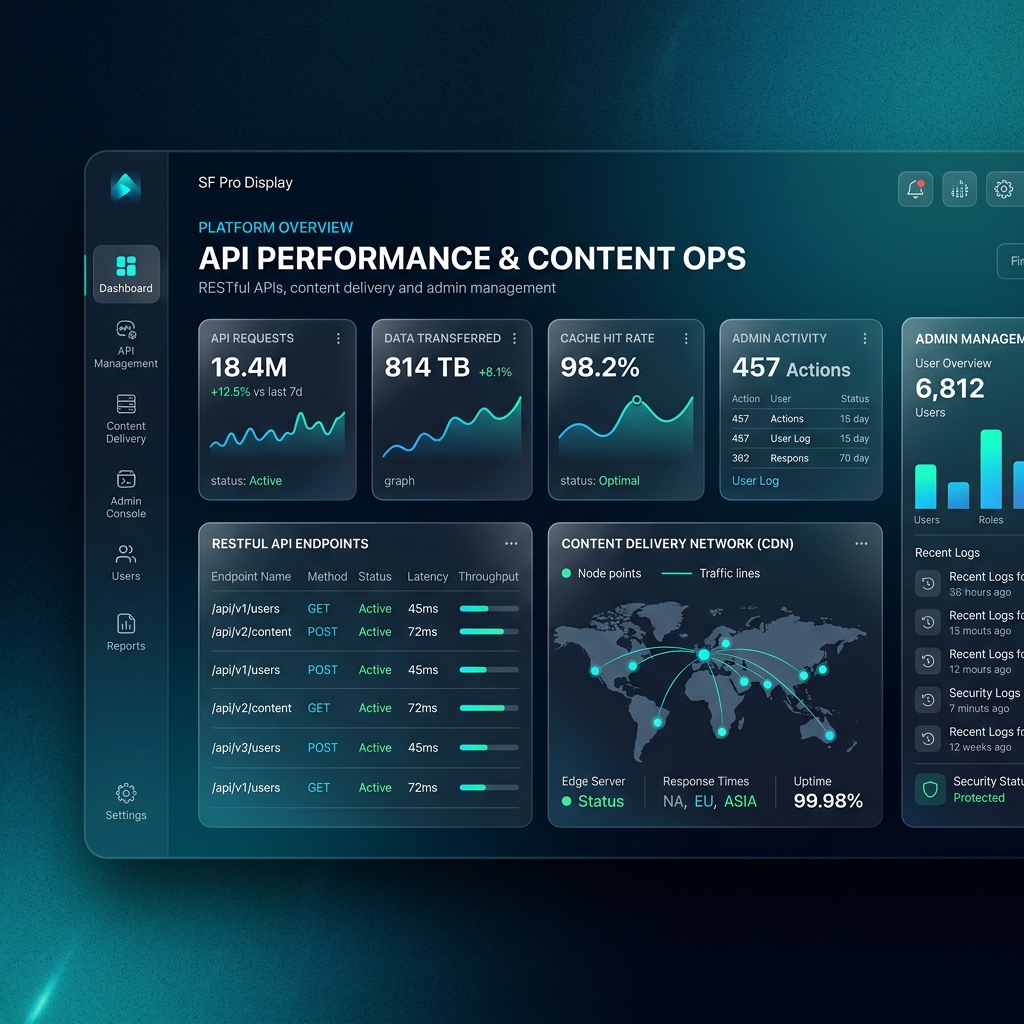
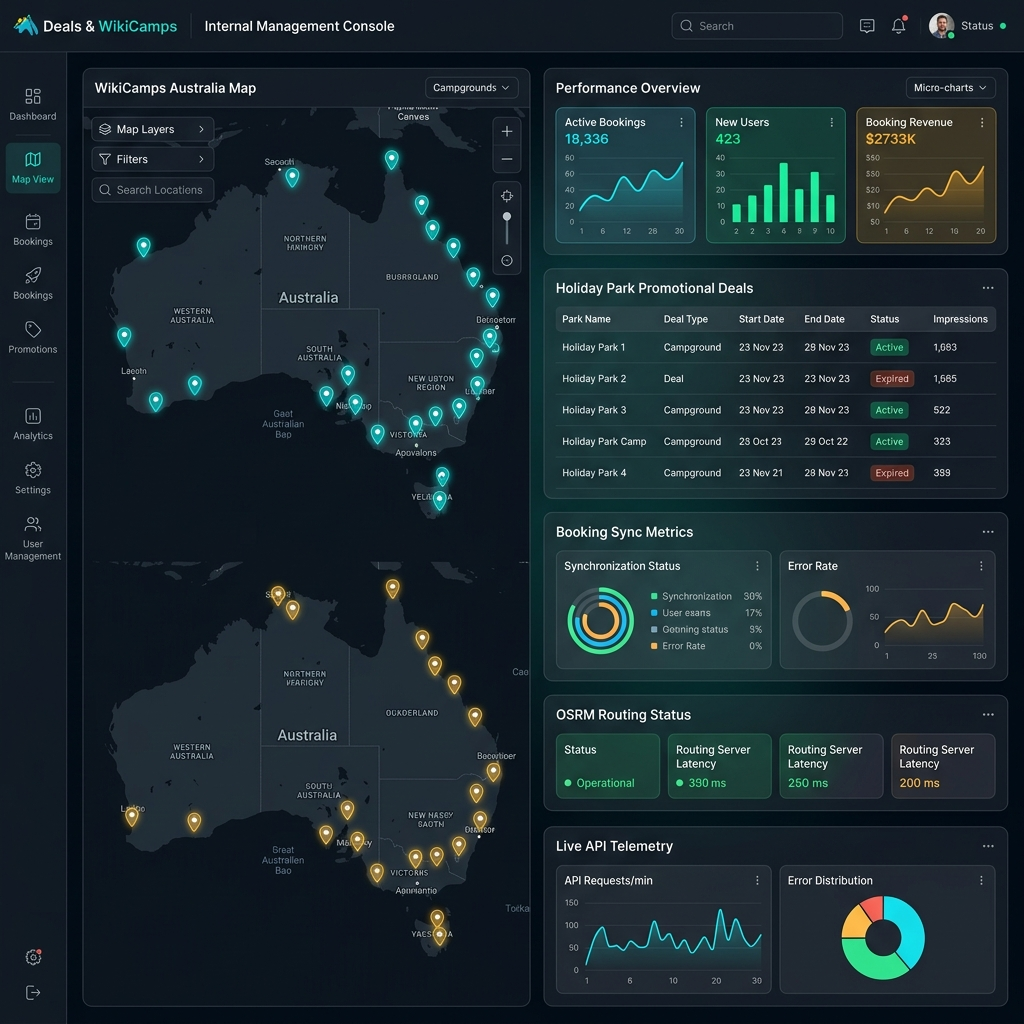
feat: update profile and project

diff --git a/src/data/cvData.ts b/src/data/cvData.ts
@@ -67,8 +67,8 @@ export const cvData = {
     primaryStatement: "I don't just write code — I close gaps.",
     supportingStatement: "Understand the system. Identify the gap. Build the solution. Deliver it in production.",
     techBadges: ["C# / .NET", "ASP.NET Core", "Azure", "SQL Server", "APIs & Integrations"],
-    overview: "Software engineer with 2 decades of experience across software development, enterprise applications, databases, integrations and IT systems, including 5+ years of professional C#/.NET experience.",
-    longAbout: "My engineering career spans two decades of building software, enterprise applications, and production systems. My earlier foundation was built on desktop and web application development, database architecture (SQL Server, Oracle), manufacturing systems, and enterprise integrations. Over the last 5+ years, I have focused professionally on modern C#/.NET, ASP.NET Core, Azure cloud infrastructure, and robust backend microservices.\n\nI approach engineering with a systems mindset: understand the business domain, pinpoint operational gaps, build clean and maintainable software, and ensure reliable execution in production.",
+    overview: "Software engineer with 2 decades of experience across software development, enterprise applications, databases, integrations and IT systems, including 15+ years of .NET development experience.",
+    longAbout: "My engineering career spans two decades of building software, enterprise applications, and production systems. My earlier foundation was built on desktop and web application development, database architecture (SQL Server, Oracle), manufacturing systems, and enterprise integrations. Across 15+ years of .NET development, I have focused professionally on modern C#/.NET, ASP.NET Core, Azure cloud infrastructure, and robust backend microservices.\n\nI approach engineering with a systems mindset: understand the business domain, pinpoint operational gaps, build clean and maintainable software, and ensure reliable execution in production.",
     location: "Available for Senior .NET & Azure Roles (Remote International)",
     email: "patrickgonzaga@gmail.com",
     linkedin: "https://www.linkedin.com/in/patgonzaga/",
@@ -144,7 +144,7 @@ export const cvData = {
       description: [
         "Served as sole software engineer managing and scaling 24/7 Manufacturing Execution Systems (MES) and enterprise IT applications across 100+ production, VMware, and Hyper-V servers.",
         "Engineered custom VB.NET, SQL Server, and Oracle solutions that boosted floor productivity by 75% and delivered > MYR 1M in verified time-saving operational benefits.",
-        "Architected the Electronic Lot Control Slip (e-LCS), introducing system-driven 'poka-yoke' (mistake-proofing) validation that blocked incorrect lot processing steps in real time.",
+        "Architected the Electronic Lot Control Slip (e-LCS) and e-Counting Balance System, implementing poka-yoke validation to eliminate lot-mixing defects and save up to 800,000 scrapped component pieces.",
         "Integrated SAP with MES to fully automate material master registration and production planning runs, eliminating manual data entry cycles.",
         "Built internal RSKL Helpdesk ticketing system (VB.NET, ASP.NET, SQL Server) and real-time Spotfire manufacturing analytics dashboards for operational leadership."
       ]
@@ -185,7 +185,7 @@ export const cvData = {
       fullDescription: "Built and maintained RESTful APIs powering the Deals and WikiCamps platforms, integrated with a low-code Retool admin portal used daily by internal operations. Implemented secure configuration via Azure Key Vault, response caching via Redis, and resilient HTTP client integrations with Polly.",
       problem: "High-volume hospitality platform required resilient backend services, real-time booking synchronization, and efficient internal admin tools.",
       solution: "Engineered ASP.NET Core REST APIs with EF Core data access, integrated BookEasy and OSRM with Polly resilience policies, and built custom Retool admin portals.",
-      engineeringDecisions: "Implemented Azure Service Bus event handlers, Redis response caching, Key Vault secret management, and Cursor AI workflows with strict human code review.",
+      engineeringDecisions: "Contributed to existing infrastructure including Azure Service Bus event handlers, Redis response caching, and Key Vault secret management, while creating custom Cursor AI error-checking workflows with strict human code review.",
       impact: "Delivered reliable production APIs and internal tools powering daily operations for Australian holiday park users.",
       image: "/images/projects/wikicamps-admin.png",
       type: "enterprise"
@@ -230,6 +230,20 @@ export const cvData = {
       engineeringDecisions: "Implemented real-time poka-yoke (error-proofing) rules that automatically verify the lot's current routing step in SQL Server and block mismatched steps before physical processing.",
       impact: "Completely eliminated routing mismatch defects, saving 23 minutes per lot cycle (92% time savings).",
       image: "/images/projects/e-lot-control.png",
+      type: "enterprise"
+    },
+    {
+      id: "e-counting-balance",
+      title: "e-Counting Balance System (eCB)",
+      client: "Renesas Semiconductor",
+      tags: ["VB.NET", "SQL Server", "Oracle", "MES", "Poka-Yoke", "Inventory Control"],
+      shortDescription: "Automated tracking and lot consolidation system preventing material scrap of partial component lots.",
+      fullDescription: "Architected and deployed the e-Counting Balance system to eliminate scrap of partial component lots in semiconductor manufacturing. Previously, up to 800,000 residual component pieces that did not form a complete lot were discarded to prevent lot mixing. The system logged, validated, and safely combined matching partial inventory into full production lots.",
+      problem: "Residual component pieces (ranging up to 800,000 pieces) that did not make a complete lot were routinely scrapped to prevent lot mixing, causing severe material waste.",
+      solution: "Engineered an automated e-Counting Balance tracking and poka-yoke (mistake-proofing) validation system in VB.NET and SQL Server to safely combine residual pieces into full production lots.",
+      engineeringDecisions: "Built real-time lot combination logic with barcode verification and database constraints to guarantee zero lot mixing while consolidating partial lots.",
+      impact: "Eliminated the scrapping of up to 800,000 component pieces, dramatically reducing material waste and driving substantial cost savings.",
+      image: "/images/projects/e-counting-balance.png",
       type: "enterprise"
     },
     {

diff --git a/src/features/About/useAbout.ts b/src/features/About/useAbout.ts
@@ -3,7 +3,7 @@ import { cvData } from '../../data/cvData';
 export const useAbout = () => {
   const bioParagraphs = [
     "My software engineering career spans two decades building applications, database systems, and enterprise infrastructure. My earlier background was built on desktop and web development, database architecture (SQL Server, Oracle), SAP/MES manufacturing integration, and production systems.",
-    "Over the last 5+ years, I have focused professionally on modern C#/.NET, ASP.NET Core RESTful APIs, Microsoft Azure cloud architecture, distributed messaging, and high-throughput data processing. My career has naturally evolved from broader software and IT systems into specialized backend and cloud engineering.",
+    "Across 15+ years of .NET development, I have focused professionally on C#/.NET, ASP.NET Core RESTful APIs, Microsoft Azure cloud architecture, distributed messaging, and high-throughput data processing. My career has naturally evolved from broader software and IT systems into specialized backend and cloud engineering.",
     "I operate on a fundamental principle: I don't just write code — I close gaps. I approach complex software engineering by understanding the entire system architecture, identifying operational bottlenecks, engineering clean solutions with Entity Framework Core and cloud services, and delivering reliable code in production."
   ];
 
@@ -16,7 +16,7 @@ export const useAbout = () => {
 
   const stats = [
     { value: "20+", label: "Years Software & IT" },
-    { value: "5+", label: "Years Professional .NET" },
+    { value: "15+", label: "Years .NET Development" },
     { value: ">MYR 1M", label: "Renesas Savings" },
     { value: "99%", label: "MES Uptime (100+ Servers)" }
   ];

diff --git a/src/features/Hero/Hero.tsx b/src/features/Hero/Hero.tsx
@@ -147,7 +147,7 @@ export const Hero: React.FC = () => {
           className="mt-8 flex items-center gap-2 text-xs font-mono text-slate-500 dark:text-slate-400"
         >
           <ShieldCheck size={14} className="text-sky-600 dark:text-sky-400" />
-          <span>Production-Proven Systems Engineer • 20+ Yrs Enterprise IT • 5+ Yrs C#/.NET</span>
+          <span>Production-Proven Systems Engineer • 20+ Yrs Enterprise IT • 15+ Yrs .NET & C#</span>
         </motion.div>
       </div>
     </section>
